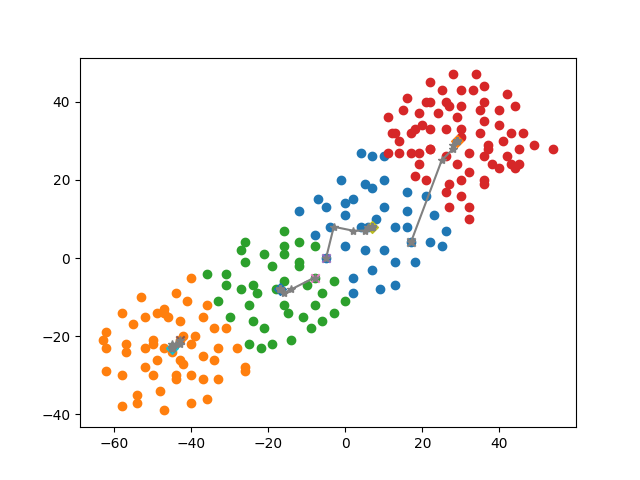
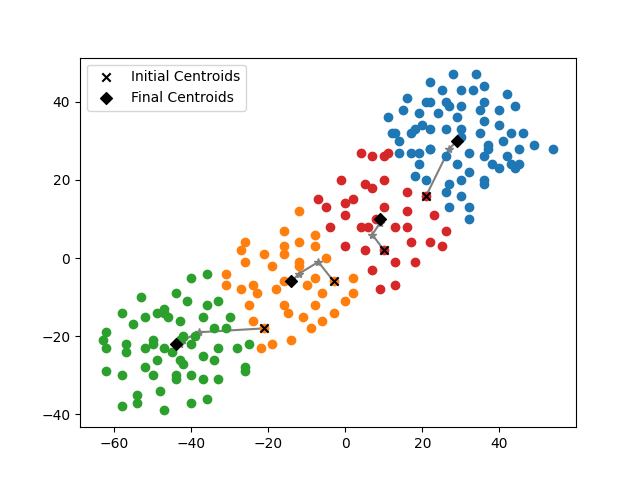
graph: transformation of cluster centroids

Changed region(s): [[0.1562, 0.125, 0.875, 0.875], [0.1562, 0.125, 0.375, 0.2188]]

diff --git a/main.py b/main.py
@@ -4,25 +4,25 @@ import matplotlib.pyplot as plt
 import pandas as pd
 from copy import deepcopy
 
+# read dataset
 with open('dataset.json') as a:
     ds = json.load(a)
 dataset = np.array(ds['red'] + ds['blue'])
 clusters = int(input("Enter the number of clusters: "))
-
 random_indices = np.random.choice(len(dataset), clusters, replace=False)
 ks = dataset[random_indices]
 initial_ks = deepcopy(ks)
-
-
 cluster_centroids = []
 
 
+# function for assigning the nearest points
 def nearest(clusters, data):
     distances = list(map(np.linalg.norm, data-clusters))
     return np.argmin(distances)
 
 
-for i in range(20):
+# main loop
+for i in range(100):
     assigned = {k: [] for k in range(clusters)}
     ds = deepcopy(ks)
     cluster_centroids.append(ds)
@@ -32,19 +32,20 @@ for i in range(20):
     for _ in range(clusters):
         ks[_] = np.mean(assigned[_], axis=0)
 
-
-# Plotting
+# Plotting and data visualization
 cluster_centroids = np.array(cluster_centroids)
 for i in range(clusters):
     plt.plot(cluster_centroids[:, i][:, 0],
-             cluster_centroids[:, i][:, 1], color='gray', marker='*')
+             cluster_centroids[:, i][:, 1], color='gray', marker='*', zorder=0)
 for a_ in assigned:
-    plt.scatter(np.array(assigned[a_])[:, 0], np.array(assigned[a_])[:, 1])
-for k1 in initial_ks:
-    plt.scatter(k1[0], k1[1], marker='x')
-for k_ in ks:
-    plt.scatter(k_[0], k_[1], marker='D')
-
+    plt.scatter(np.array(assigned[a_])[:, 0],
+                np.array(assigned[a_])[:, 1], zorder=1)
+plt.scatter(initial_ks[:, 0], initial_ks[:, 1],
+            marker='x', zorder=2, label='Initial Centroids', color='black')
+plt.scatter(ks[:, 0], ks[:, 1], marker='D', zorder=2, label='Final Centroids', color='black')
 print("The final cluster centroids are: ", ks)
+
+
+plt.legend()
 plt.savefig('fig.png')
 plt.show()

diff --git a/README.md b/README.md
@@ -23,12 +23,12 @@ The K-means algorithm is an unsupervised machine learning technique for clusteri
 ![Figure for K-Means Algorithm](https://raw.githubusercontent.com/mr0bn0xi0us/k-means/main/fig.png)
 # Getting Started
 1. Clone the repository
-```
+```bash
 git clone https://github.com/jacksparrow404/k-means
 cd k-means
 ```
 2. Run the 'main.py' script:
-```
+```bash
 python main.py
 ```
 3.The script will generate a scatter plot of the dataset along with the initial and final positions of the cluster centroids. The resulting plot will be saved as `fig.png` in the current directory.
